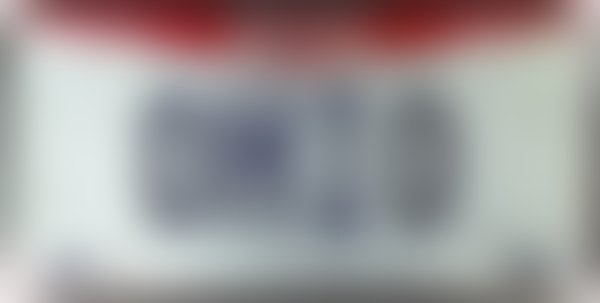
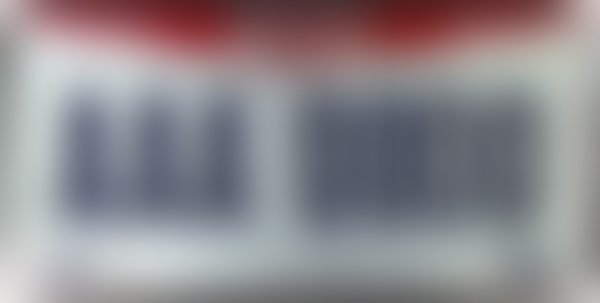
Plate quiz: nameless Ohio and Utah plates
Ohio: vanity plate number replaced with generic AAA 0000 (full, blur and
nameless versions). Utah: header name removed. All 91 plates now have a
nameless version.

diff --git a/plates/data.js b/plates/data.js
@@ -55,7 +55,7 @@ const PLATES = [
   {"state": "North Carolina", "img": "img/north-carolina.jpg", "credit": "Jettacar, CC BY-SA 4.0, https://commons.wikimedia.org/wiki/File:2020_North_Carolina_License_Plate.png | Blurred image: generated from the image above (Gaussian blur)", "blurImg": "img/blur/north-carolina.jpg", "nameless": "img/nl/north-carolina.jpg"},
   {"state": "North Dakota", "img": "img/north-dakota.jpg", "credit": "SuperSonic337, CC0, https://commons.wikimedia.org/wiki/File:North_Dakota_license_plate.jpg | Blurred image: generated from the image above (Gaussian blur)", "blurImg": "img/blur/north-dakota.jpg", "label": "Legendary", "nameless": "img/nl/north-dakota.jpg"},
   {"state": "North Dakota", "img": "img/north-dakota-2.jpg", "credit": "Zakker82, CC BY 3.0, https://commons.wikimedia.org/wiki/File:NDLicensePlate2.jpg | Blurred image: generated from the image above (Gaussian blur)", "blurImg": "img/blur/north-dakota-2.jpg", "label": "Centennial 1989", "nameless": "img/nl/north-dakota-2.jpg"},
-  {"state": "Ohio", "img": "img/ohio.jpg", "credit": "Mister Upstate, CC BY-SA 3.0, https://commons.wikimedia.org/wiki/File:Ohio_license_plate_2013.jpg | Blurred image: generated from the image above (Gaussian blur)", "blurImg": "img/blur/ohio.jpg", "label": "2013 design"},
+  {"state": "Ohio", "img": "img/ohio.jpg", "credit": "Mister Upstate, CC BY-SA 3.0, https://commons.wikimedia.org/wiki/File:Ohio_license_plate_2013.jpg | Blurred image: generated from the image above (Gaussian blur) | Edited: the vanity plate number was replaced with a generic one, and the state name was removed from the nameless version.", "blurImg": "img/blur/ohio.jpg", "label": "2013 design", "nameless": "img/nl/ohio.jpg"},
   {"state": "Ohio", "img": "img/ohio-2.jpg", "credit": "trism (Uploader of Photo on Forum), Public domain, https://commons.wikimedia.org/wiki/File:Beautiful_Ohio_License_Plate.jpg | Blurred image: generated from the image above (Gaussian blur)", "blurImg": "img/blur/ohio-2.jpg", "label": "Beautiful Ohio (2021)", "nameless": "img/nl/ohio-2.jpg"},
   {"state": "Ohio", "img": "img/ohio-3.jpg", "credit": "Figurenladen, Public domain, https://commons.wikimedia.org/wiki/File:%22Sunburst%22_Ohio_License_Plate.jpg | Blurred image: generated from the image above (Gaussian blur)", "blurImg": "img/blur/ohio-3.jpg", "label": "Sunburst (older)", "nameless": "img/nl/ohio-3.jpg"},
   {"state": "Oklahoma", "img": "img/oklahoma.jpg", "credit": "Blue Bird Visions, CC BY-SA 4.0, https://commons.wikimedia.org/wiki/File:Imagine_That.png | Blurred image: generated from the image above (Gaussian blur)", "blurImg": "img/blur/oklahoma.jpg", "label": "Imagine That (2024)", "nameless": "img/nl/oklahoma.jpg"},
@@ -76,7 +76,7 @@ const PLATES = [
   {"state": "Texas", "img": "img/texas.jpg", "credit": "Dickelbers, CC BY-SA 4.0, https://commons.wikimedia.org/wiki/File:2012_Texas_license_plate_JXM_3687.jpg | Blurred image: generated from the image above (Gaussian blur)", "blurImg": "img/blur/texas.jpg", "label": "Current white design", "nameless": "img/nl/texas.jpg"},
   {"state": "Texas", "img": "img/texas-2.jpg", "credit": "AllenLow, CC BY-SA 4.0, https://commons.wikimedia.org/wiki/File:Texas_2005_license_plate.jpg | Blurred image: generated from the image above (Gaussian blur)", "blurImg": "img/blur/texas-2.jpg", "label": "2000s Space Shuttle", "nameless": "img/nl/texas-2.jpg"},
   {"state": "Texas", "img": "img/texas-3.jpg", "credit": "SuperSonic337, CC0, https://commons.wikimedia.org/wiki/File:Texas_2009-12_license_plate.jpg | Blurred image: generated from the image above (Gaussian blur)", "blurImg": "img/blur/texas-3.jpg", "label": "2010s Lone Star", "nameless": "img/nl/texas-3.jpg"},
-  {"state": "Utah", "img": "img/utah.jpg", "credit": "Pickn528, CC BY-SA 4.0, https://commons.wikimedia.org/wiki/File:2017_Utah_License_Plate.jpg | Blurred image: generated from the image above (Gaussian blur)", "blurImg": "img/blur/utah.jpg", "label": "Life Elevated"},
+  {"state": "Utah", "img": "img/utah.jpg", "credit": "Pickn528, CC BY-SA 4.0, https://commons.wikimedia.org/wiki/File:2017_Utah_License_Plate.jpg | Blurred image: generated from the image above (Gaussian blur)", "blurImg": "img/blur/utah.jpg", "label": "Life Elevated", "nameless": "img/nl/utah.jpg"},
   {"state": "Utah", "img": "img/utah-2.jpg", "credit": "Dickelbers, CC BY-SA 4.0, https://commons.wikimedia.org/wiki/File:Utah_2018_license_plate_(USA).jpg | Blurred image: generated from the image above (Gaussian blur)", "blurImg": "img/blur/utah-2.jpg", "label": "Greatest Snow on Earth", "nameless": "img/nl/utah-2.jpg"},
   {"state": "Vermont", "img": "img/vermont.jpg", "credit": "Zcarstvnz, CC BY-SA 4.0, https://commons.wikimedia.org/wiki/File:Vermont_2017_License_Plate.jpg | Blurred image: generated from the image above (Gaussian blur)", "blurImg": "img/blur/vermont.jpg", "nameless": "img/nl/vermont.jpg"},
   {"state": "Virginia", "img": "img/virginia.jpg", "credit": "Virginian DMV, Public domain, https://commons.wikimedia.org/wiki/File:Virginia_2016_License_Plate.jpg | Blurred image: generated from the image above (Gaussian blur)", "blurImg": "img/blur/virginia.jpg", "label": "Current standard", "nameless": "img/nl/virginia.jpg"},
